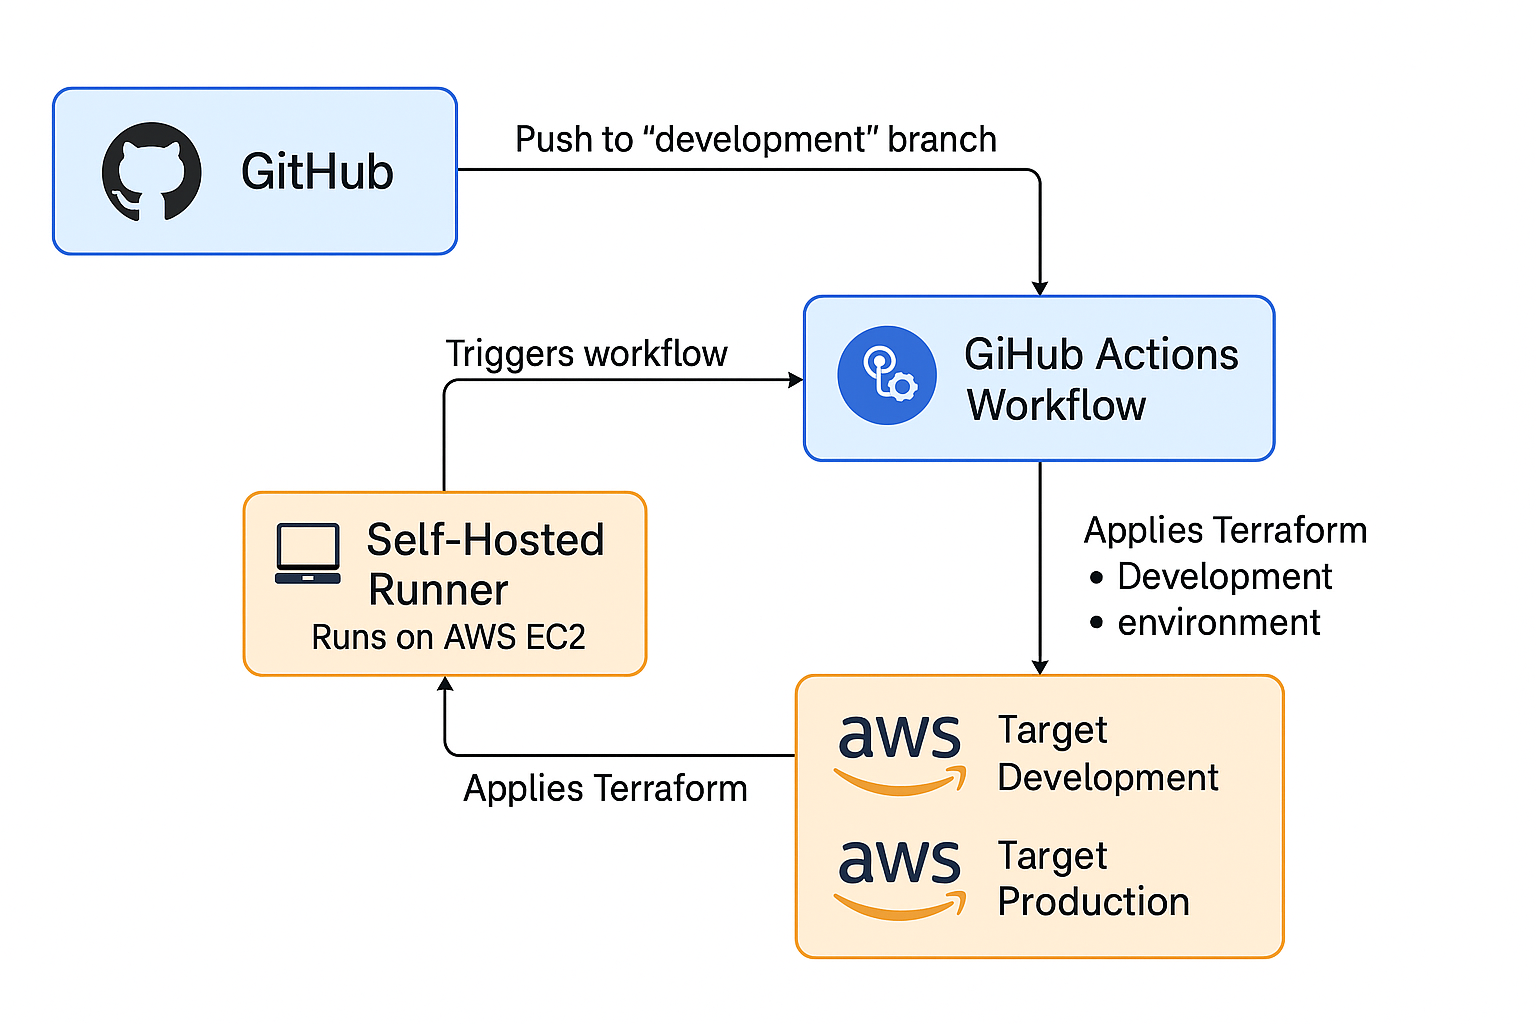
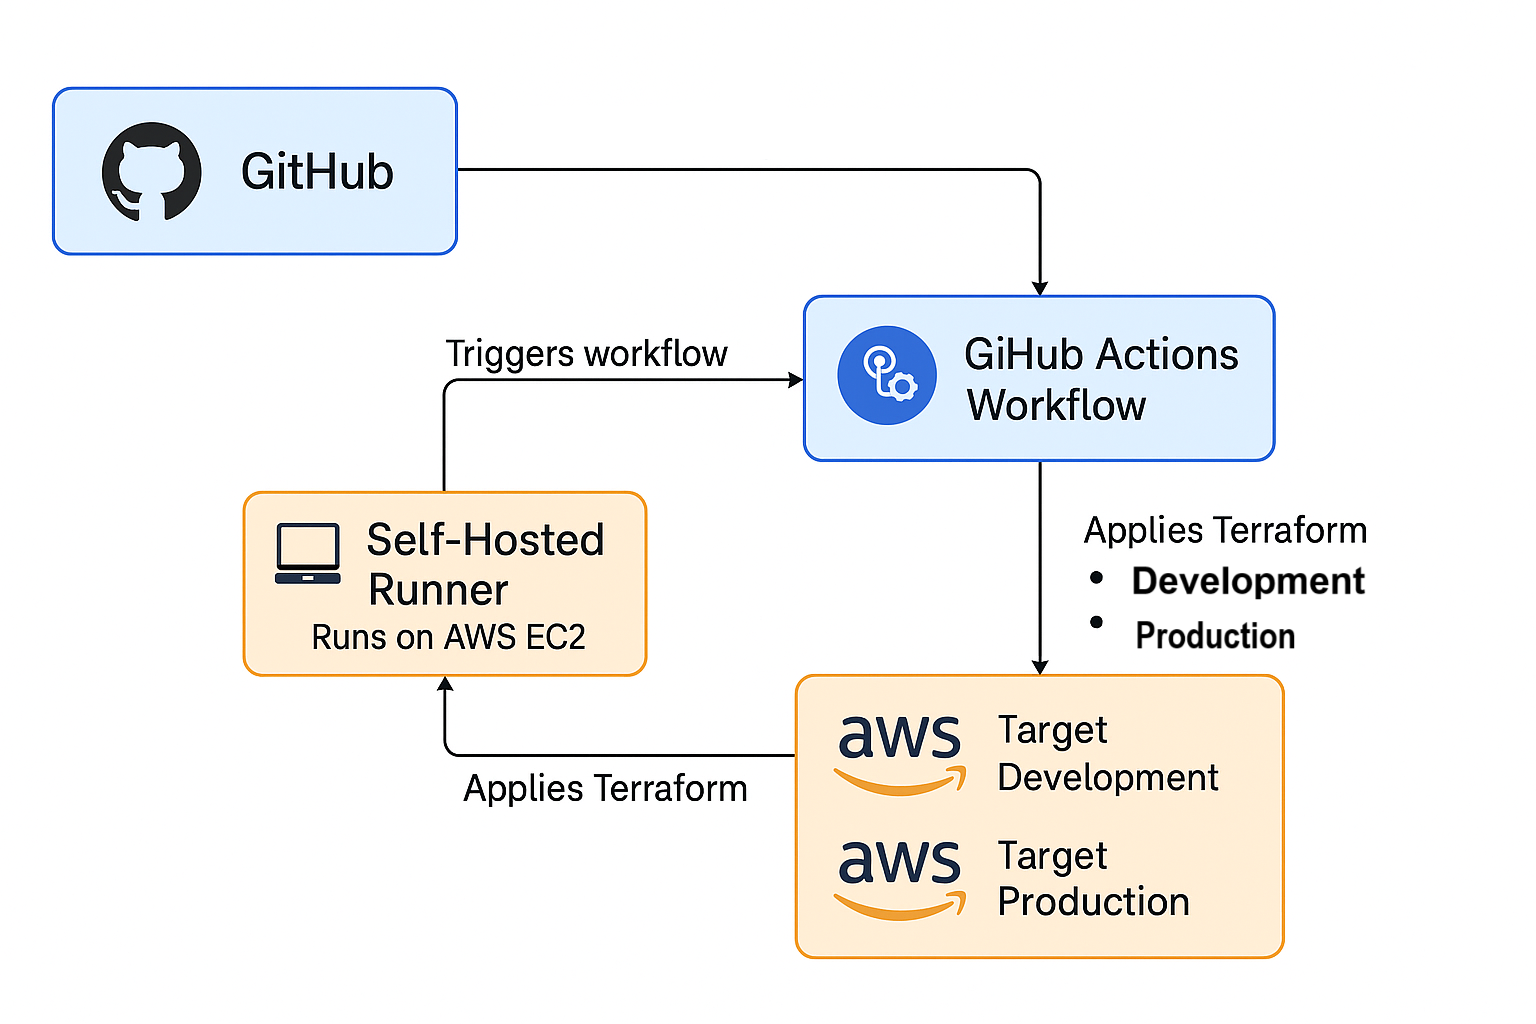
Development (#24)

Changed region(s): [[0.7188, 0.5312, 0.9062, 0.6562], [0.3438, 0.125, 0.6562, 0.1562]]

diff --git a/info/github-actions-runner/README.md b/info/github-actions-runner/README.md
@@ -1,0 +1,34 @@
+# GitHub Actions Runner Setup
+
+This directory documents the setup and usage of **GitHub self-hosted runners** for running Terraform workflows securely and efficiently.
+
+## 🖥 Runner Configuration
+
+The repository uses a **self-hosted runner** registered with the `labels: [self-hosted, terraform]` tag. This runner must:
+
+* Be an EC2 instance (Amazon Linux 2 or Ubuntu recommended)
+* Have Terraform pre-installed (version managed via `TERRAFORM_VERSION` GitHub variable)
+* Have AWS CLI and `kubectl` installed
+* Be registered with your repository under GitHub Actions -> Settings -> Runners
+
+See [self-hosted-runner.md](self-hosted-runner.md) for step-by-step instructions and architecture diagrams.
+
+## 🔐 Security
+
+* Use **environment secrets** and **GitHub environment protection rules** for Production.
+* Never hardcode AWS credentials or sensitive information.
+
+## 🧩 Diagram
+
+Refer to the diagrams:
+
+* `github_actions_diagram.png`: Overview of the Terraform CI/CD workflow
+
+## 💡 Notes
+
+* The runner should have a persistent EBS volume or be backed up if ephemeral
+* Tags should be applied for cost tracking and auditing
+
+---
+
+This runner powers the automation in `.github/workflows/deploy.yml` for deploying EKS clusters with Karpenter.

diff --git a/.github/README.md b/.github/README.md
@@ -1,0 +1,41 @@
+# GitHub Actions: EKS Infrastructure CI/CD
+
+This directory contains workflows for provisioning AWS EKS infrastructure using Terraform and Karpenter via GitHub Actions.
+
+## 📂 Workflow Summary
+
+* **File:** `.github/workflows/deploy.yml`
+* **Trigger:** Manual (`workflow_dispatch`) with selectable environment (Development or Production)
+* **Runner:** Self-hosted EC2 instance with labels: `self-hosted`, `terraform`
+* **Tooling:** Uses `hashicorp/setup-terraform` for installation
+
+## ✅ Features
+
+* Secure secrets/variables via GitHub Actions Environment settings
+* Terraform plan and apply steps
+* Conditional apply on `master` or `development` branches
+* Uploads Terraform output as build artifact
+
+## 🔐 Environments
+
+* GitHub Environments (`Development`, `Production`) are used to:
+
+  * Isolate secrets
+  * Add manual approval for `Production`
+
+## 🗂 File Structure
+
+```
+.github/
+└── workflows/
+    └── deploy.yml
+```
+
+## 🛠 Customization
+
+* To extend or modify, adjust the `deploy.yml` file
+* Add more jobs or environments as needed
+
+## 📘 Documentation
+
+* Detailed explanation: [info/github-actions-runner/README.md](../info/github-actions-runner/README.md)
